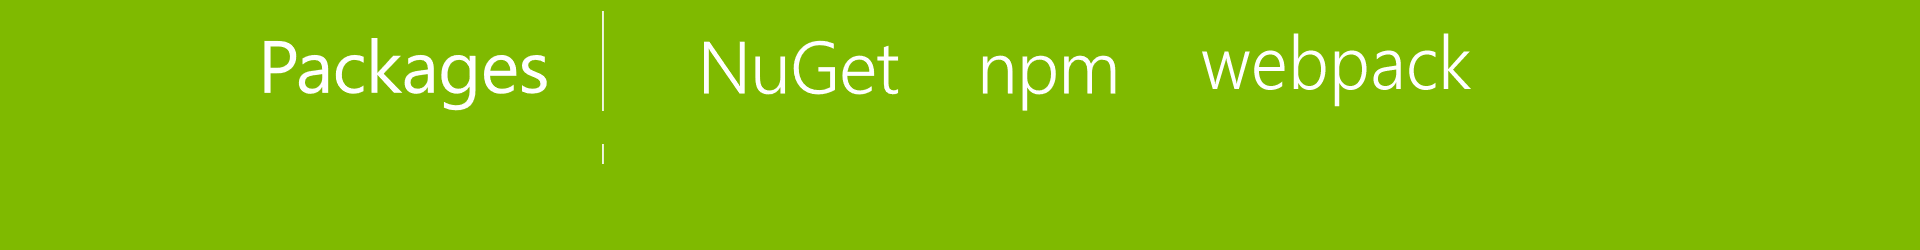
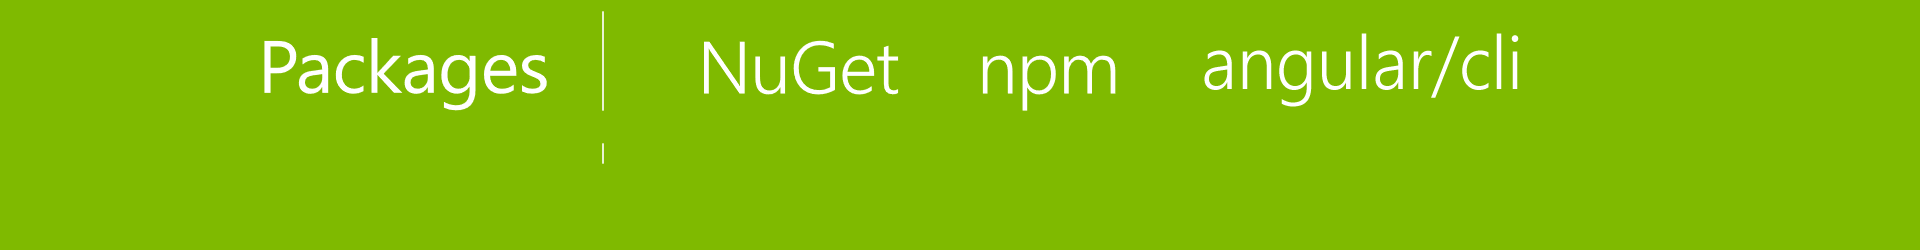
Updated client/server components. Minor refactoring

Changed region(s): [[0.625, 0.14, 0.8125, 0.364], [0.6562, 0.392, 0.6875, 0.42]]

diff --git a/src/QuickApp/ClientApp/src/app/components/controls/banner-demo.component.html b/src/QuickApp/ClientApp/src/app/components/controls/banner-demo.component.html
@@ -1,97 +1,97 @@
 <div>
-    <div>
-        <carousel interval="6000">
-            <slide>
-                <img [src]="banner1" alt="ASP.NET" class="img-responsive" />
-                <div class="carousel-caption">
-                    <p>
-                        Learn how to build ASP.NET apps that can run anywhere
-                        <a class="btn btn-default btn-sm" href="http://go.microsoft.com/fwlink/?LinkID=525028&clcid=0x409" target="_blank">
-                            Learn More
-                        </a>
-                    </p>
-                </div>
-            </slide>
-            <slide>
-                <img [src]="banner2" alt="Visual Studio" class="img-responsive" />
-                <div class="carousel-caption">
-                    <p>
-                        One platform for building modern web, native mobile and native desktop applications
-                        <a class="btn btn-default btn-sm" href="http://angular.io" target="_blank">
-                            Learn More
-                        </a>
-                    </p>
-                </div>
-            </slide>
-            <slide>
-                <img [src]="banner3" alt="Package Management" class="img-responsive" />
-                <div class="carousel-caption">
-                    <p>
-                        Bring in libraries from NuGet and npm, and bundle with webpack
-                        <a class="btn btn-default btn-sm" href="http://go.microsoft.com/fwlink/?LinkID=525029&clcid=0x409" target="_blank">
-                            Learn More
-                        </a>
-                    </p>
-                </div>
-            </slide>
-            <slide>
-                <img [src]="banner4" alt="Eben Monney" class="img-responsive" />
-                <div class="carousel-caption">
-                    <p>
-                        Follow me on social media for updates and tips on using this startup project
-                        <a class="btn btn-default btn-sm" href="https://www.ebenmonney.com/about" target="_blank">
-                            Learn More
-                        </a>
-                    </p>
-                </div>
-            </slide>
-        </carousel>
-    </div>
+  <div>
+    <carousel interval="6000">
+      <slide>
+        <img [src]="banner1" alt="ASP.NET" class="img-responsive" />
+        <div class="carousel-caption">
+          <p>
+            Learn how to build ASP.NET apps that can run anywhere
+            <a class="btn btn-default btn-sm" href="http://go.microsoft.com/fwlink/?LinkID=525028&clcid=0x409" target="_blank">
+              Learn More
+            </a>
+          </p>
+        </div>
+      </slide>
+      <slide>
+        <img [src]="banner2" alt="Visual Studio" class="img-responsive" />
+        <div class="carousel-caption">
+          <p>
+            One platform for building modern web, native mobile and native desktop applications
+            <a class="btn btn-default btn-sm" href="http://angular.io" target="_blank">
+              Learn More
+            </a>
+          </p>
+        </div>
+      </slide>
+      <slide>
+        <img [src]="banner3" alt="Package Management" class="img-responsive" />
+        <div class="carousel-caption">
+          <p>
+            Bring in libraries from NuGet and npm, and bundle with angular/cli
+            <a class="btn btn-default btn-sm" href="http://go.microsoft.com/fwlink/?LinkID=525029&clcid=0x409" target="_blank">
+              Learn More
+            </a>
+          </p>
+        </div>
+      </slide>
+      <slide>
+        <img [src]="banner4" alt="Eben Monney" class="img-responsive" />
+        <div class="carousel-caption">
+          <p>
+            Follow me on social media for updates and tips on using this startup project
+            <a class="btn btn-default btn-sm" href="https://www.ebenmonney.com/about" target="_blank">
+              Learn More
+            </a>
+          </p>
+        </div>
+      </slide>
+    </carousel>
+  </div>
 
 
-    <div class="row">
-        <div class="col-md-3">
-            <h3>Application uses</h3>
-            <ul>
-                <li>Restful API backend using the cross platform <a href="http://go.microsoft.com/fwlink/?LinkID=525028&clcid=0x409" target="_blank">ASP.NET Core MVC</a></li>
-                <li>Client framework with <a href="http://angular.io" target="_blank">angular6</a> and typescript</li>
-                <li><a href="http://npmjs.com" target="_blank">npm</a> for managing client-side libraries</li>
-                <li>Theming using <a href="http://go.microsoft.com/fwlink/?LinkID=398939" target="_blank">Bootstrap</a></li>
-                <li>Module bundling with <a href="https://webpack.js.org" target="_blank">webpack3</a></li>
-            </ul>
-        </div>
-        <div class="col-md-3">
-            <h3>How to</h3>
-            <ul>
-                <li><a href="https://www.ebenmonney.com/quickapp#adding-pages" target="_blank">Add additional pages and set access permissions</a></li>
-                <li><a href="http://go.microsoft.com/fwlink/?LinkId=699315" target="_blank">Manage User Secrets using Secret Manager.</a></li>
-                <li><a href="http://go.microsoft.com/fwlink/?LinkId=699316" target="_blank">Use logging to log a message.</a></li>
-                <li><a href="http://go.microsoft.com/fwlink/?LinkId=699317" target="_blank">Add packages using NuGet.</a></li>
-                <li><a href="https://www.ebenmonney.com/quickapp#adding-vendor-packages" target="_blank">Add client packages using npm</a></li>
-                <li><a href="https://www.ebenmonney.com/quickapp#building-vendor-packages" target="_blank">Rebuild client vendor packages</a></li>
-                <li><a href="http://go.microsoft.com/fwlink/?LinkId=699319" target="_blank">Target development, staging or production environment.</a></li>
-            </ul>
-        </div>
-        <div class="col-md-3">
-            <h3>Overview</h3>
-            <ul>
-                <li><a href="http://go.microsoft.com/fwlink/?LinkId=518008" target="_blank">Conceptual overview of what is ASP.NET Core</a></li>
-                <li><a href="http://angular.io/docs/ts/latest/guide" target="_blank">Angular6 documentation overview</a></li>
-                <li><a href="http://go.microsoft.com/fwlink/?LinkId=398602" target="_blank">Working with Data</a></li>
-                <li><a href="http://go.microsoft.com/fwlink/?LinkId=398603" target="_blank">Security</a></li>
-                <li><a href="http://go.microsoft.com/fwlink/?LinkID=699321" target="_blank">Client side development</a></li>
-                <li><a href="https://webpack.js.org/guides/get-started" target="_blank">An introduction to webpack</a></li>
-                <li><a href="http://go.microsoft.com/fwlink/?LinkID=699322" target="_blank">Develop on different platforms</a></li>
-                <li><a href="https://www.ebenmonney.com/quickapp" target="_blank">Read more on the documentation site</a></li>
-            </ul>
-        </div>
-        <div class="col-md-3">
-            <h3>Run & Deploy</h3>
-            <ul>
-                <li><a href="https://www.ebenmonney.com/quickapp#how-to-run-app" target="_blank">Run your app</a></li>
-                <li><a href="http://go.microsoft.com/fwlink/?LinkID=517853" target="_blank">Run tools such as EF migrations and more</a></li>
-                <li><a href="http://go.microsoft.com/fwlink/?LinkID=398609" target="_blank">Publish to Microsoft Azure Web Apps</a></li>
-            </ul>
-        </div>
+  <div class="row">
+    <div class="col-md-3">
+      <h3>Application uses</h3>
+      <ul>
+        <li>Restful API backend using the cross platform <a href="http://go.microsoft.com/fwlink/?LinkID=525028&clcid=0x409" target="_blank">ASP.NET Core MVC</a></li>
+        <li>Client framework with <a href="http://angular.io" target="_blank">angular6</a> and typescript</li>
+        <li><a href="http://npmjs.com" target="_blank">npm</a> for managing client-side libraries</li>
+        <li>Theming using <a href="http://go.microsoft.com/fwlink/?LinkID=398939" target="_blank">Bootstrap</a></li>
+        <li>Module bundling with <a href="https://cli.angular.io" target="_blank">Angular CLI</a></li>
+      </ul>
     </div>
+    <div class="col-md-3">
+      <h3>How to</h3>
+      <ul>
+        <li><a href="https://www.ebenmonney.com/quickapp#adding-pages" target="_blank">Add additional pages and set access permissions</a></li>
+        <li><a href="http://go.microsoft.com/fwlink/?LinkId=699315" target="_blank">Manage User Secrets using Secret Manager.</a></li>
+        <li><a href="http://go.microsoft.com/fwlink/?LinkId=699316" target="_blank">Use logging to log a message.</a></li>
+        <li><a href="http://go.microsoft.com/fwlink/?LinkId=699317" target="_blank">Add packages using NuGet.</a></li>
+        <li><a href="https://www.ebenmonney.com/quickapp#adding-vendor-packages" target="_blank">Add client packages using npm</a></li>
+        <li><a href="https://www.ebenmonney.com/quickapp#building-vendor-packages" target="_blank">Rebuild client vendor packages</a></li>
+        <li><a href="http://go.microsoft.com/fwlink/?LinkId=699319" target="_blank">Target development, staging or production environment.</a></li>
+      </ul>
+    </div>
+    <div class="col-md-3">
+      <h3>Overview</h3>
+      <ul>
+        <li><a href="http://go.microsoft.com/fwlink/?LinkId=518008" target="_blank">Conceptual overview of what is ASP.NET Core</a></li>
+        <li><a href="https://angular.io/guide/quickstart" target="_blank">QuickStart guide to Angular6</a></li>
+        <li><a href="http://go.microsoft.com/fwlink/?LinkId=398602" target="_blank">Working with Data</a></li>
+        <li><a href="http://go.microsoft.com/fwlink/?LinkId=398603" target="_blank">Security</a></li>
+        <li><a href="http://go.microsoft.com/fwlink/?LinkID=699321" target="_blank">Client side development</a></li>
+        <li><a href="https://github.com/angular/angular-cli/wiki" target="_blank">Angular CLI documentation</a></li>
+        <li><a href="http://go.microsoft.com/fwlink/?LinkID=699322" target="_blank">Develop on different platforms</a></li>
+        <li><a href="https://www.ebenmonney.com/quickapp" target="_blank">Read more on the documentation site</a></li>
+      </ul>
+    </div>
+    <div class="col-md-3">
+      <h3>Run & Deploy</h3>
+      <ul>
+        <li><a href="https://www.ebenmonney.com/quickapp#how-to-run-app" target="_blank">Run your app</a></li>
+        <li><a href="http://go.microsoft.com/fwlink/?LinkID=517853" target="_blank">Run tools such as EF migrations and more</a></li>
+        <li><a href="http://go.microsoft.com/fwlink/?LinkID=398609" target="_blank">Publish to Microsoft Azure Web Apps</a></li>
+      </ul>
+    </div>
+  </div>
 </div>

diff --git a/src/QuickApp/ClientApp/src/app/services/app-translation.service.ts b/src/QuickApp/ClientApp/src/app/services/app-translation.service.ts
@@ -81,11 +81,6 @@ export class AppTranslationService {
 
 export class TranslateLanguageLoader implements TranslateLoader {
 
-  /**
-   * Gets the translations from webpack
-   * @param lang
-   * @returns {any}
-   */
   public getTranslation(lang: string): any {
 
     //Note Dynamic require(variable) will not work. Require is always at compile time

diff --git a/src/QuickApp/ClientApp/src/app/services/configuration.service.ts b/src/QuickApp/ClientApp/src/app/services/configuration.service.ts
@@ -26,7 +26,7 @@ type UserConfiguration = {
 @Injectable()
 export class ConfigurationService {
 
-    public static readonly appVersion: string = "2.6.0";
+    public static readonly appVersion: string = "2.6.1";
 
     public baseUrl = environment.baseUrl || Utilities.baseUrl();
     public loginUrl = environment.loginUrl;
